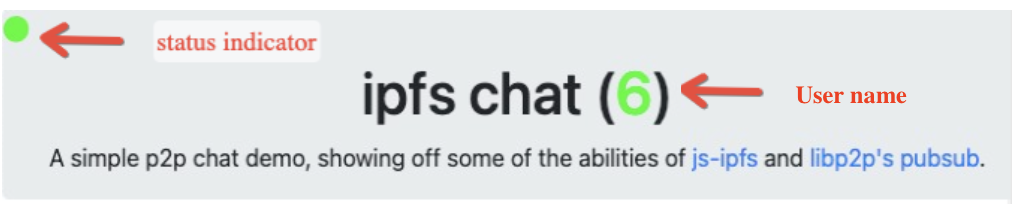
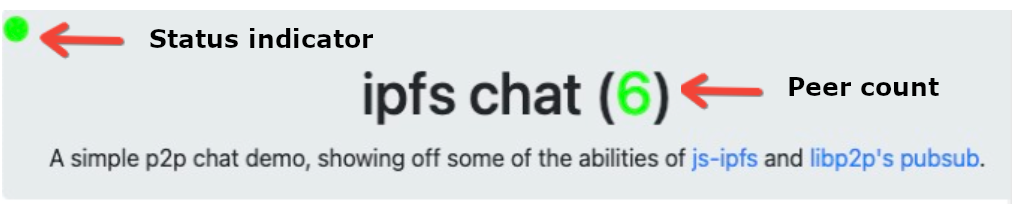
Updated diagram, changed links to be up-to-date, removed Docker section, added warning about circuit-relay v1 removal from go-ipfs & linked to a repo with most of the code needed to use the chat app /w a relay (but missing pubsub & the ability to list addrs, so no announcing) fixes #1146

diff --git a/docs/how-to/create-simple-chat-app.md b/docs/how-to/create-simple-chat-app.md
@@ -25,10 +25,10 @@ To see a live demo, start your ipfs daemon (open IPFS Desktop or enter ipfs daem
 
 To get a minimal chat app going in your browser, you can [download a copy of the chat app code](#getting-the-code), run the daemon, and open index.html (instructions below).
 
-To test and deploy your own version with your own star nodes and addresses, follow the setup below for:
+To test and deploy your own version with your own nodes (recommended for deployments), follow the setup below for:
 
 - [Getting the code](#getting-the-code)
-- [Discovery and connectivity set up](#peer-discovery-and-connectivity) to peers (or use [Docker](#docker))
+- [Discovery and connectivity set up](#peer-discovery-and-connectivity) to peers
 - [Advertising set up](#advertising) to let other peers know your users are there
 - [Publishing set up and staying connected](#communication) to peers
 
@@ -77,8 +77,6 @@ This diagram demonstrates what a three-user network can look like.
 
 The browser nodes can communicate with go-ipfs as well, so BrowserC doesn't have to be a browser at all, but instead could be a go-ipfs node!
 
-You have a choice between using our recommended method with WebRTC-Star or you can quickly create your own kit if you’re comfortable using Docker. We provide a [Docker](#docker) image with instructions below.
-
 ### WebRTC-Star
 
 We use [WebRTC-Star](https://github.com/libp2p/js-libp2p-webrtc-star) nodes to help discover other peers to connect with directly, browser-to-browser. We use the [js-ipfs](https://github.com/ipfs/js-ipfs/blob/master/docs/BROWSERS.md) and Bootstrap libraries. For Bootstrap, we’re only using minified CSS. If you want a newer version of [js-ipfs](https://github.com/ipfs/js-ipfs/blob/master/docs/BROWSERS.md), you can use the [latest version available](https://cdn.jsdelivr.net/npm/ipfs/dist/index.min.js) from JSDelivr.
@@ -105,9 +103,13 @@ ipfs = await Ipfs.create({
 
 #### Setup
 
-Please note that this how-to uses example star nodes — however, those won't necessarily always be accessible. Currently it's important to either find a reliable star node or host your own. You can host your own by following the instructions for a [native setup](https://github.com/libp2p/js-libp2p-webrtc-star%23rendezvous-server-aka-signaling-server) or for a [Docker container](https://github.com/libp2p/js-libp2p-webrtc-star/blob/master/DEPLOYMENT.md) which includes Nginx (for SSL). If you opt for the native setup, we cover the Nginx reverse proxy process and SSL cert retrieval later in this post.
+Please note that this how-to uses example star nodes — however, those won't necessarily always be accessible. Currently it's important to either find a reliable star node or host your own. You can host your own by following the instructions for a [native setup](https://github.com/libp2p/js-libp2p-webrtc-star/tree/master/packages/webrtc-star-signalling-server) or for a [Docker container](https://github.com/libp2p/js-libp2p-webrtc-star/blob/master/packages/webrtc-star-signalling-server/DEPLOYMENT.md) which includes Nginx (for SSL). If you opt for the native setup, we cover the Nginx reverse proxy process and SSL cert retrieval later in this post.
 
 ### p2p-circuit
+
+:::warning
+This section is currently only relevant for go-ipfs versions **before** v0.11.0 as it's about circuit relay v1. There is currently no solution available to directly replace it, though most of the work has been complete [here](https://github.com/libp2p/go-libp2p-relay-daemon).
+:::
 
 WebRTC-Star is a very clean and effective method of P2P communications; however, sometimes NATs get in the way, so we use [p2p-circuit](https://docs.libp2p.io/concepts/circuit-relay) to get around that.
 
@@ -233,7 +235,7 @@ Here is  the [Python script](https://gist.github.com/TheDiscordian/51962fea72f8
 You can retrieve your own circuit info by running ipfs id on your go-ipfs node to get your PeerID. Then form the circuit URL like so:
 
 ```shell
-/dns6/ipfs.YOURDOMAIN.COM/tcp/4430/p2p/YOUR\_PEERID/p2p-circuit/p2p/
+/dns6/YOURDOMAIN.COM/tcp/4430/p2p/YOUR\_PEERID/p2p-circuit/p2p/
 ```
 
 You should see here where you fill out the domain name that you got the SSL cert for, as well as your node's PeerID. For the script, the leading and trailing slash are required, too.
@@ -437,56 +439,6 @@ setInterval(checkalive, 1000);
 :::warning
 The above code  should be used with the full version of processAnnounce, as it relies on lastAlive and lastPeer, which aren't updated in the simplified version.
 :::
-
-## Docker
-
-This step is optional. If you would like to quickly create your own kit using Docker, instead of using [WebRTC-Star](https://docs.ipfs.io/how-to/create-simple-chat-app/%23webrtc-star), this example includes a Docker image you can use. It might not be the best long-term solution, but it should be great if you want to quickly get rolling and experiment.
-
-### Create a volume
-
-First, create a volume to store long-term data like keys and node data.
-
-```shell
-docker volume create ipfs_bundle
-```
-
-### Configure a domain
-
-You need a domain and SSL to use this kit with browser nodes. There are two options:
-
-- One will run certbot and automatically grab a certificate for the provided domain name.
-- The other option won't handle SSL for you, and instead you'll have to reverse proxy port 9091 to 9090 (SSL), and port 4011 to 4430 (SSL).
-
-When you execute either of the commands, your IPFS node will also be set up for the first time giving you information such as its PeerID and circuit relay addresses. Take note of these — you'll want to edit them into the chat client so you can use your own node (see [WebRTC-Star Usage](https://docs.ipfs.io/how-to/create-simple-chat-app/%23usage) and [p2p-circuit Usage](https://docs.ipfs.io/how-to/create-simple-chat-app/%23usage-2) below for usage examples, or edit index.html and change the node's [multiaddresses](https://docs.libp2p.io/concepts/addressing/) out for your own).
-
-#### With certbot
-
-Ensure port 80 isn't being used, follow the checklist below, and then run the following command:
-
-```shell
-docker run --mount source=ipfs_bundle,destination=/root -p 9091:9091 -p 4011:4011 -p 9090:9090 -p 4430:4430 -p 80:80 -it trdiscordian/ipfsbundle certbot DOMAIN.COM
-```
-
-#### No certbot SSL disabled
-
-If you use this option, the container won't handle SSL at all, and you'll have to reverse proxy port 9091 to 9090 (SSL), and port 4011 to 4430 (SSL).
-
-```shell
-docker run --mount source=ipfs_bundle,destination=/root -p 9091:9091 -p 4011:4011 -it trdiscordian/ipfsbundle DOMAIN.COM
-```
-
-- Replace DOMAIN.COM with your domain
-- Ensure the domain is correctly pointing to the machine you're running the container on (subdomains work fine too)
-
-#### Running the container
-
-Once you're configured, you’re almost ready to run the container. Ensure that, at minimum, ports 4430 and 9090 are forwarded.
-
-```shell
-docker run --mount source=ipfs\_bundle,destination=/root -p 9091:9091 -p 4011:4011 -p 9090:9090 -p 4430:4430 -it trdiscordian/ipfsbundle
-```
-
-You should now be able to use your machine as both a WebRTC-Star node and a p2p-circuit node.
 
 ## More resources
 
